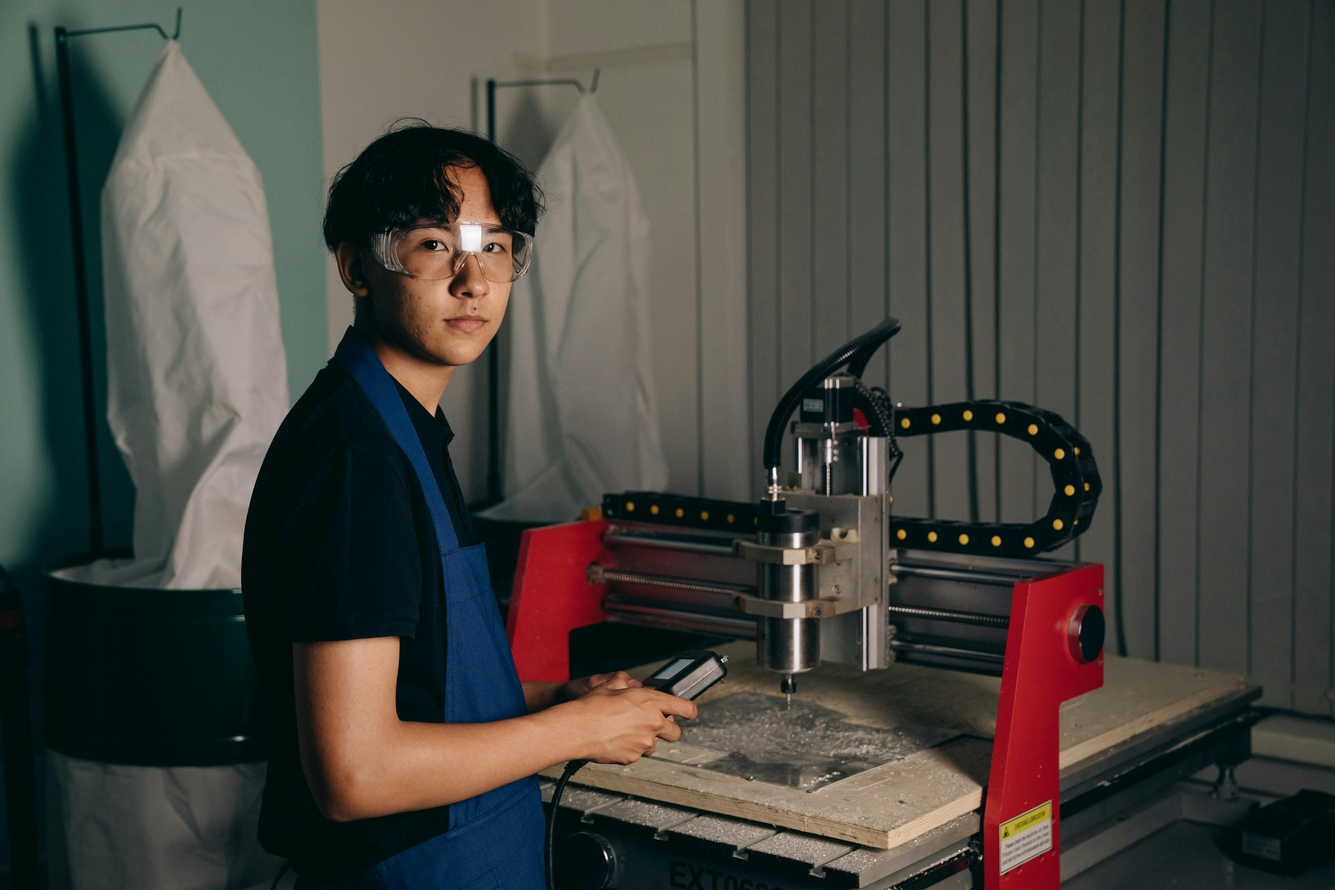
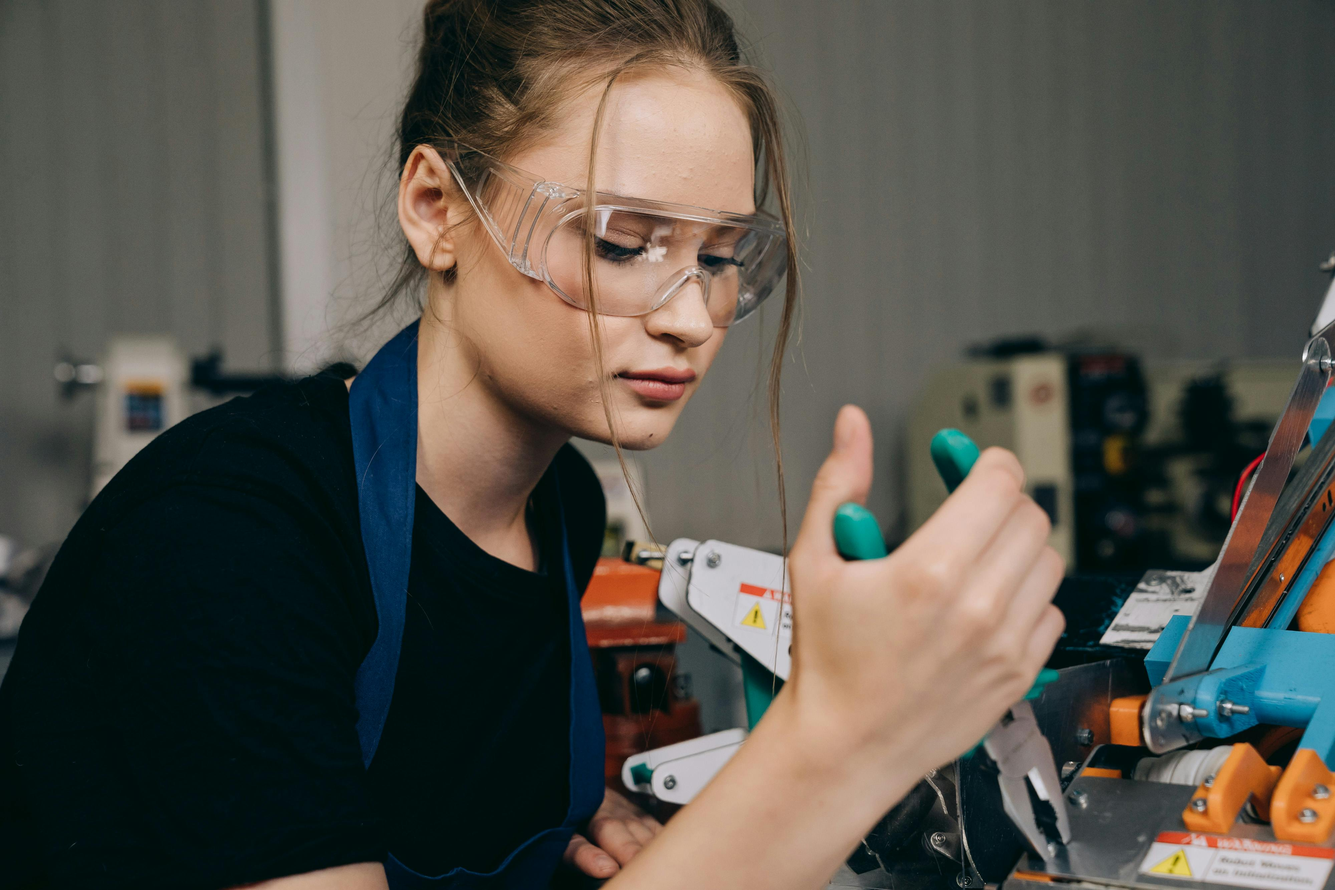
feat: update image heights in Home page cards for improved layout consistency

diff --git a/src/pages/Home.jsx b/src/pages/Home.jsx
@@ -57,7 +57,7 @@ export default function Home() {
                 <div className="grid grid-cols-1 sm:grid-cols-2 gap-6 mt-6">
                     {/* Card 1 */}
                     <div className="bg-white dark:bg-zinc-800 rounded-lg shadow-lg p-6">
-                        <img src="/Contexto.jpg" alt="Linha do Tempo" className="w-full h-60 object-cover rounded-t-lg" />
+                        <img src="/Contexto.jpg" alt="Linha do Tempo" className="w-full h-80 object-cover rounded-t-lg" />
                         <h4 className="mt-4 text-lg font-medium">Contexto Histórico</h4>
                         <p className="mt-2 text-gray-600 dark:text-gray-400">
                             Conheça a evolução dos direitos e oportunidades dos jovens no mercado de trabalho,
@@ -73,7 +73,7 @@ export default function Home() {
 
                     {/* Card 2 */}
                     <div className="bg-white dark:bg-zinc-800 rounded-lg shadow-lg p-6">
-                        <img src="/Dicas.jpg" alt="Dicas" className="w-full h-60 object-cover rounded-t-lg" />
+                        <img src="/Dicas.jpg" alt="Dicas" className="w-full h-80 object-cover rounded-t-lg" />
                         <h4 className="mt-4 text-lg font-medium">Dicas Práticas</h4>
                         <p className="mt-2 text-gray-600 dark:text-gray-400">
                             Explore dicas e orientações práticas para desenvolver suas habilidades e avançar na sua carreira.
@@ -89,7 +89,7 @@ export default function Home() {
 
                     {/* Card 3 */}
                     <div className="bg-white dark:bg-zinc-800 rounded-lg shadow-lg p-6">
-                        <img src="/Teste.jpg" alt="Teste Rápido" className="w-full h-60 object-cover object-top-right rounded-t-lg" />
+                        <img src="/Teste.jpg" alt="Teste Rápido" className="w-full h-80 object-cover object-top-right rounded-t-lg" />
                         <h4 className="mt-4 text-lg font-medium">Teste de Aptidão</h4>
                         <p className="mt-2 text-gray-600 dark:text-gray-400">
                             Descubra seu perfil de trabalhador com este teste rápido e entenda melhor seus pontos fortes e áreas de crescimento.
@@ -104,7 +104,7 @@ export default function Home() {
 
                     {/* Card 4 */}
                     <div className="bg-white dark:bg-zinc-800 rounded-lg shadow-lg p-6">
-                        <img src="/Mapa.jpg" alt="Mapa de Oportunidades" className="w-full h-60 object-cover rounded-t-lg" />
+                        <img src="/Mapa.jpg" alt="Mapa de Oportunidades" className="w-full h-80 object-cover rounded-t-lg" />
                         <h4 className="mt-4 text-lg font-medium">Mapa de Oportunidades</h4>
                         <p className="mt-2 text-gray-600 dark:text-gray-400">
                             Explore os polos de atendimento do CIEE e encontre vagas e oportunidades de desenvolvimento profissional perto de você.
